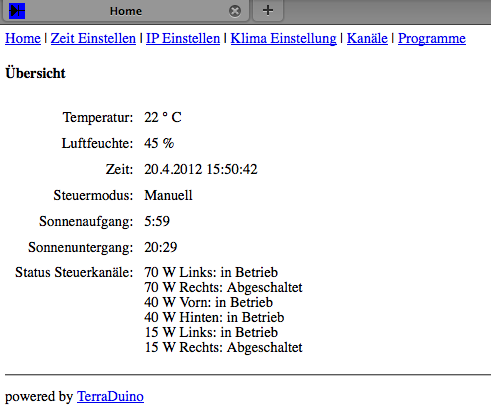
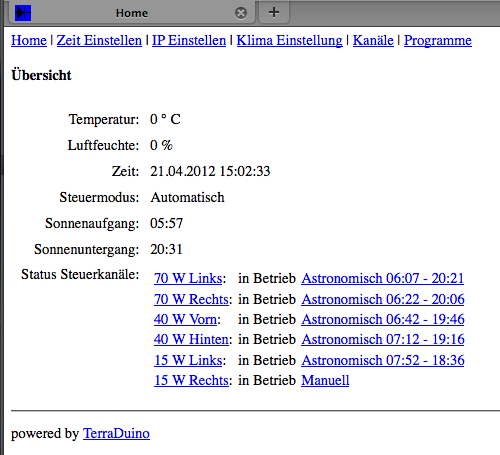
- fixed cooldown calculations - fixed air calculations - added display of current runtime mode on home per channel - added display of air condition to home page

Changed region(s): [[0.0, 0.0, 1.0, 1.0]]

diff --git a/libraries/Messages/Messages.h b/libraries/Messages/Messages.h
@@ -3,6 +3,7 @@ FLASH_STRING(f_failed_dht, "Failed to read from DHT");
 FLASH_STRING(f_sht_temp, "Temperature: ");
 FLASH_STRING(f_grad, " *C");
 FLASH_STRING(f_percent, " %");
+FLASH_STRING(f_colon, ": ");
 FLASH_STRING(f_sht_hum, "   Humidity: ");
 FLASH_STRING(f_sht_aircond, "   Air Cond: ");
 FLASH_STRING(f_sht_run, "running");
@@ -28,6 +29,7 @@ FLASH_STRING(f_sh_help,
 	     "  c            - dump channel config\n"
 	     "  p            - dump program config\n"
 	     "  P            - dump PIN states\n"
+	     "  m            - show free memory\n"
 	     "  h            - show help\n");
 
 FLASH_STRING(f_sh_reset, "Resetting Config");
@@ -38,7 +40,8 @@ FLASH_STRING(f_shp_tit, "Current PIN states:");
 FLASH_STRING(f_shp_head, "Switch | MAIN | Ch1 | Ch2 | Ch3 | Ch4 | Ch5 | Ch6"); 
 FLASH_STRING(f_shp_line, "-------+------+-----+-----+-----+-----+-----+-----");
 FLASH_STRING(f_shp_pin, "  PIN  |  ");
-FLASH_STRING(f_shp_pipe, "|  ");
+FLASH_STRING(f_shp_pipe, "| ");
+FLASH_STRING(f_shp_pipe1, "|  ");
 FLASH_STRING(f_shp_mode, " Mode  |   ");
 FLASH_STRING(f_shp_rel, " Relay |      ");
 FLASH_STRING(f_shp_2sp, "  ");
@@ -48,10 +51,12 @@ FLASH_STRING(f_sherr_form, "Error: invalid format entered, expected: ");
 FLASH_STRING(f_sherr_ex3dig, "3 digits separated by :");
 FLASH_STRING(f_sherr_ex3digdot, "3 digits separated by .");
 FLASH_STRING(f_sherr_exip, "4 octets separated by .");
+FLASH_STRING(f_sherr_extmp, "2 digits separated by space (0-65 *C)");
 FLASH_STRING(f_sherr_exhour, "hour not within 0-23");
 FLASH_STRING(f_sherr_exmin, "minute not within 0-59");
 FLASH_STRING(f_sherr_exsec, "second not within 0-59");
 FLASH_STRING(f_sherr_exoct, "octet not within 0-255");
+FLASH_STRING(f_sherr_exstmp, "temp not within 0-65");
 
 FLASH_STRING(f_sherr_exday, "day not within 1-31");
 FLASH_STRING(f_sherr_exmon, "month not within 1-12");
@@ -63,7 +68,241 @@ FLASH_STRING(f_sherr_ddmmmis, "Error: Parameter in the form DD.MM.YYYY missing!"
 FLASH_STRING(f_sht_timesav, "Time successfully changed to ");
 FLASH_STRING(f_sht_datesav, "Date successfully changed to ");
 FLASH_STRING(f_sht_ipsav, "IP address successfully changed to ");
+FLASH_STRING(f_sht_tmpsav, "Air condition successfully set to ");
+FLASH_STRING(f_sht_airoff, "Air condition successfully turned OFF");
 
 FLASH_STRING(f_rtc_ok, "RTC has set the system time");
 FLASH_STRING(f_rtc_fail, "Unable to sync with the RTC");
+
+FLASH_STRING(f_shc_cn, "Channel #");
+FLASH_STRING(f_shc_pn, "Program #");
+FLASH_STRING(f_shc_pr, "        Program: ");
+FLASH_STRING(f_shc_typ, "            Typ: ");
+FLASH_STRING(f_shc_cfg, " config: ");
+FLASH_STRING(f_shc_st, "Statisch");
+FLASH_STRING(f_shc_start, "          Start: ");
+FLASH_STRING(f_shc_stop, "           Stop: ");
+FLASH_STRING(f_shc_ast, "Astronomisch");
+FLASH_STRING(f_shc_stdel, "    Start Delay: ");
+FLASH_STRING(f_shc_stodel, "     Stop Delay: ");
+FLASH_STRING(f_shc_min, " Minuten");
+FLASH_STRING(f_shc_sec, " Sekunden");
+FLASH_STRING(f_shc_delay, " Einschalt Verzoegerung: ");
+FLASH_STRING(f_shc_man, "Manuell");
+
+FLASH_STRING(f_prompt, "> ");
+
+FLASH_STRING(f_ship, "Current ip address: ");
+FLASH_STRING(f_mem, "Free memory: ");
+
+FLASH_STRING(thome, "Home");
+FLASH_STRING(tchannels, "Steuerkan&auml;le");
+FLASH_STRING(tdate, "Datum und Uhrzeit Einstellen");
+FLASH_STRING(tsetp, "Zuordnung Steuerkanal zu Programm Einstellen");
+FLASH_STRING(tprog, "Programme");
+FLASH_STRING(tprogset, "Programm Einstellen");
+FLASH_STRING(tip, "IP Adresse Einstellen");
+FLASH_STRING(tair, "Klima Einstellung");
+
+
+FLASH_STRING(hhead,
+	     "<!DOCTYPE html PUBLIC \"-//W3C//DTD XHTML 1.0 Transitional//EN\" \"http://www.w3.org/TR/xhtml1/DTD/xhtml1-transitional.dtd\">"
+	     "<html xmlns=\"http://www.w3.org/1999/xhtml\" xml:lang=\"de-de\" lang=\"de-de\" dir=\"ltr\">"
+	     "<head><title>");
+
+FLASH_STRING(hmenu,
+	     "</title>"
+	     "</head>"
+	     "<body>"
+	     "<p>"
+	     "<a href=\"index.html\">Home</a> | "
+	     "<a href=\"setdate.html\">Zeit Einstellen</a> | "
+	     "<a href=\"setip.html\">IP Einstellen</a></li> | "
+	     "<a href=\"air.html\">Klima Einstellung</a></li> | "
+	     "<a href=\"channels.html\">Kan&auml;le</a> | "
+	     "<a href=\"programs.html\">Programme</a>"
+	     "</p>");
+
+FLASH_STRING(hfoot,
+	     "<hr>"
+	     "<p>powered by <a href=\"https://github.com/TLINDEN/TerraDuino\">TerraDuino</a></p>"
+	     "</body>"
+	     "</html>");
+
+FLASH_STRING(ch1, "<h4>&Uuml;bersicht</h4>");
+FLASH_STRING(chc, "<h4>Steuerkan&auml;le</h4>");
+FLASH_STRING(chd, "<h4>Datum und Uhrzeit Einstellen</h4>"
+	     "<p>Geben Sie die Werte ein und Dr&uuml;cken Sie \"Einstellen\". "
+	     "Es ist insbesondere bei der Uhrzeit ratsam, sich zu beeilen.</p>");
+FLASH_STRING(chs, "<h4>Zuordnung Steuerkanal zu Programm Einstellen</h4>");
+FLASH_STRING(chp, "<h4>Programme &Uuml;bersicht</h4>");
+FLASH_STRING(chps, "<h4>Programm Einstellen</h4>");
+FLASH_STRING(chip,
+	     "<h4>IP Adresse Einstellen</h4>"
+	     "<p>"
+	     "Geben Sie eine statische IP Adresse ein, die in Ihrem LAN "
+	     "noch nicht in Verwendung ist. Booten Sie den Terraduino "
+	     "anschliessend.<br/>"
+	     "Wenn Sie einen Fehler gemacht haben sollten und Sie den "
+	     "Terraduino nicht mehr erreichen k&ouml;nnen, m&uuml;ssen "
+	     "Sie ihn resetten: Serielle Schnittstelle (9600,1,N), booten, "
+	     "\"R\" eingeben (Ohne Anf&uuml;hrungszeichen!). Der Terraduino "
+	     "bootet dann mit der default Adresse: <b>10.0.0.1</b>.<br/> "
+	     "<b>VORSICHT: Dabei gehen alle Einstellungen verloren!</b>"
+	     "</p>"
+);
+FLASH_STRING(chair,
+	     "<h4>Klima Einstellung</h4>"
+	     "<p>"
+	     "Stellen Sie ein, ob bei Temperatur&auml;nderungen der L&uuml;fter "
+	     "eingeschaltet werden soll und bei welchen Grenzwerten."
+	     "</p>");
+
+
+FLASH_STRING(tablechan,
+	     "<table border=\"0\">"
+	     "<tr>"
+	     "  <th>Kanal</th>"
+	     "  <th>Zugewiesenes Programm</th>"
+	     "</tr>");
+
+FLASH_STRING(tablesd,
+	     "<table border=\"0\">"
+	     " <tr>"
+	     "   <td align=\"center\">TT</td>"
+	     "   <td align=\"center\">MM</td>"
+	     "   <td align=\"center\">JJJJ</td>"
+	     "   <td align=\"center\">HH</td>"
+	     "   <td align=\"center\">MM</td>"
+	     "   <td align=\"center\">SS</td>"
+	     " </tr>");
+FLASH_STRING(tableprog,
+	     "<table border=\"0\">"
+	     "<tr>"
+	     "  <th>Nummer</th>"
+	     "  <th>Programm</th>"
+	     "</tr>");
+FLASH_STRING(tableprogset,
+	     "<table border=\"0\">"
+	     "<tr>"
+	     "<td align=\"right\" colspan=\"2\">");
+
+FLASH_STRING(tableair,
+	     "<table border=\"0\">"
+	     "<tr>"
+	     "<td align=\"right\">Aktivieren</td>"
+	     "<td>");
+
+
+FLASH_STRING(chlinkl, "<a href=\"setprogram.html?channel=");
+FLASH_STRING(chlinkr, "\">");
+FLASH_STRING(chlinke, "</a>");
+
+FLASH_STRING(prlinkl, "<a href=\"editprogram.html?program=");
+
+FLASH_STRING(table, "<table border=\"0\" cellspacing=\"10\">");
+FLASH_STRING(tablesm, "<table border=\"0\" cellpadding=\"2\">");
+FLASH_STRING(tdr, "<td align=\"right\">");
+FLASH_STRING(tdrt, "<td align=\"right\" valign=\"top\">");
+FLASH_STRING(td, "<td>");
+FLASH_STRING(tde, "</td>");
+FLASH_STRING(tra, "<tr>");
+FLASH_STRING(tre, "</tr>");
+FLASH_STRING(tablee, "</table>");
+FLASH_STRING(br, "<br/>");
+FLASH_STRING(itemp, "Temperatur:");
+FLASH_STRING(igrad, " &deg;C");
+FLASH_STRING(ihum, "Luftfeuchte:");
+FLASH_STRING(iperc, " %");
+FLASH_STRING(itime, "Zeit:");
+FLASH_STRING(imode, "Steuermodus:");
+FLASH_STRING(isunr, "Sonnenaufgang:");
+FLASH_STRING(isuns, "Sonnenuntergang:");
+FLASH_STRING(ichan, "Status Steuerkan&auml;le:");
+FLASH_STRING(iklim, "Status Klimasteuerung: ");
+FLASH_STRING(imm, "Manuell");
+FLASH_STRING(ima, "Automatisch");
+FLASH_STRING(irun, " in Betrieb ");
+FLASH_STRING(ioff, " Abgeschaltet ");
+
+FLASH_STRING(bis, " - ");
+
+FLASH_STRING(msg1, "<span style=\"color: green\">");
+FLASH_STRING(msg2, "</span>");
+
+FLASH_STRING(sdform, "<form name=\"setdate\" action=\"setdate.html\" method=\"POST\">");
+
+FLASH_STRING(sdfi2,
+	     "   <td align=\"center\">"
+	     "<input type=\"text\" size=\"2\" maxlength=\"2\" name=\"");
+FLASH_STRING(sdfi4,
+	     "   <td align=\"center\">"
+	     "<input type=\"text\" size=\"4\" maxlength=\"4\" name=\"");
+FLASH_STRING(sdfdst,
+	     "   <td align=\"left\" colspan=\"6\">Sommerzeit:"
+	     "   <input name=\"6\" type=\"text\" size=\"1\" maxlength=\"1\" value=\"");
+FLASH_STRING(sdfdsth,    "     (0 = Winterzeit, 1 = Sommerzeit)");
+
+FLASH_STRING(sdfv, "\" value=\"");
+FLASH_STRING(sdfe, "\"/>");
+
+FLASH_STRING(submit, "<input type=\"submit\" name=\"submit\" value=\"Einstellen\"/>");
+
+FLASH_STRING(sddone, "Datum und Uhrzeit eingestellt");
+
+FLASH_STRING(spform, "<form name=\"setprogram\" action=\"setprogram.html\" method=\"POST\">");
+FLASH_STRING(sdchannel, "Steuerkanal: ");
+FLASH_STRING(sdpc, "Zugeordnetes Programm:");
+FLASH_STRING(hidden, "<input type=\"hidden\" name=\"0\" value=\"");
+FLASH_STRING(spsel,  "<select name=\"1\">");
+FLASH_STRING(opt, "<option value=\"");
+FLASH_STRING(opte, "</option>");
+FLASH_STRING(sele, "</select>");
+FLASH_STRING(selected, " selected='selected' ");
+
+FLASH_STRING(forme, "</form>");
+FLASH_STRING(err_unknchan, "Fehler: Unbekannter Steuerkanal!");
+FLASH_STRING(err_unknid, "Fehler: Channel ID nicht angegeben!");
+FLASH_STRING(err_unknpr, "Fehler: Unbekanntes Programm!");
+
+FLASH_STRING(spdone, "Steuerkanal neuem Programm zugeordnet");
+
+FLASH_STRING(spsform,  "<form name=\"editprogram\" action=\"editprogram.html\" method=\"POST\">");
+
+FLASH_STRING(spf2,
+	     "<input type=\"text\" size=\"2\" maxlength=\"2\" name=\"");
+FLASH_STRING(spf5,
+	     "<input type=\"text\" size=\"5\" maxlength=\"5\" name=\"");
+
+FLASH_STRING(spcooldown, "Einschalt Verz&ouml;gerung (Cooldown Zeit) (Minuten)");
+
+FLASH_STRING(err_unknprog, "Fehler: Unbekanntes Programm!");
+FLASH_STRING(err_unknprogid, "Fehler: Program ID nicht angegeben!");
+
+FLASH_STRING(err_type, "Fehler: Typ != 0|1|2!")
+FLASH_STRING(err_hour1,"Fehler: Start Stunde ! 0-23!");
+FLASH_STRING(err_min1, "Fehler: Start Minute ! 0-59!");
+FLASH_STRING(err_hour2, "Fehler: Stop Stunde ! 0-23!");
+FLASH_STRING(err_min2, "Fehler: Stop Minute ! 0-59!");
+FLASH_STRING(err_delay1, "Fehler: Start Verz&ouml;gerung ! 0-65536!");
+FLASH_STRING(err_delay2, "Fehler: Stop Verz&ouml;gerung ! 0-65536!");
+FLASH_STRING(err_cooldown, "Fehler: Einschalt Verz&ouml;gerung ! 0-65536!");
+
+FLASH_STRING(progdone, "Programm wurde gespeichert");
+
+FLASH_STRING(ipform,
+	     "<form name=\"setip\" action=\"setip.html\" method=\"POST\">"
+	     "IP Adresse: ");
+FLASH_STRING(spf3,
+	     "<input type=\"text\" size=\"3\" maxlength=\"3\" name=\"");
+FLASH_STRING(ipdone, "Neue IP Adresse eingestellt");
+
+FLASH_STRING(airform, "<form name=\"setdate\" action=\"air.html\" method=\"POST\">");
+FLASH_STRING(airactive, "Aktiv");
+FLASH_STRING(airinactive, "Inaktiv");
+FLASH_STRING(tmin, "Tmin (schaltet L&uuml;fter aus):");
+FLASH_STRING(tmax, "Tmax (schaltet L&uuml;fter ein):");
+FLASH_STRING(err_air, "Fehler: Temperatur 0-65!");
+FLASH_STRING(airdone, "Klimaeinstellungen gespeichert");
+
 
